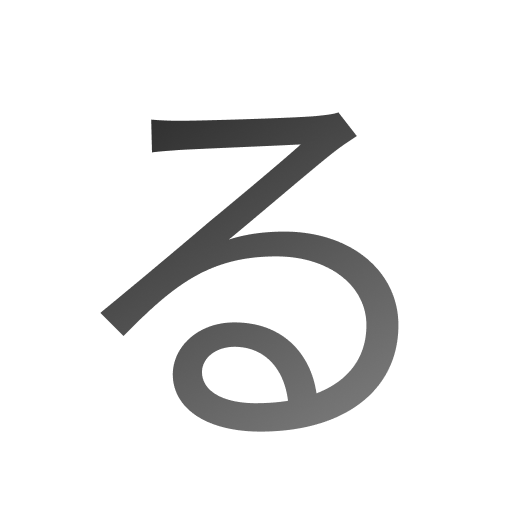
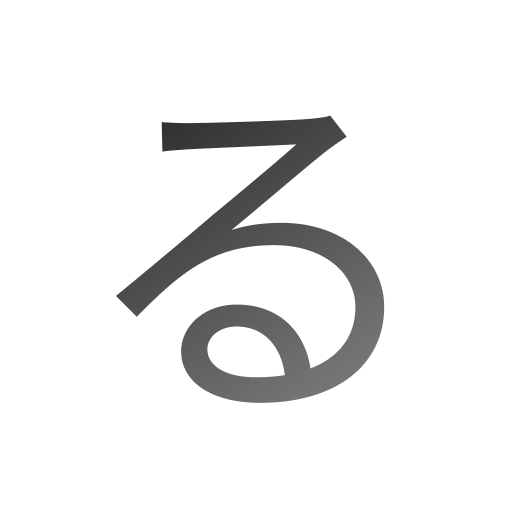
Updates

diff --git a/sw.js b/sw.js
@@ -1,1 +1,1 @@
-if(!self.define){let e,s={};const r=(r,i)=>(r=new URL(r+".js",i).href,s[r]||new Promise((s=>{if("document"in self){const e=document.createElement("script");e.src=r,e.onload=s,document.head.appendChild(e)}else e=r,importScripts(r),s()})).then((()=>{let e=s[r];if(!e)throw new Error(`Module ${r} didn’t register its module`);return e})));self.define=(i,n)=>{const l=e||("document"in self?document.currentScript.src:"")||location.href;if(s[l])return;let o={};const t=e=>r(e,l),u={module:{uri:l},exports:o,require:t};s[l]=Promise.all(i.map((e=>u[e]||t(e)))).then((e=>(n(...e),o)))}}define(["./workbox-3e911b1d"],(function(e){"use strict";self.skipWaiting(),e.clientsClaim(),e.precacheAndRoute([{url:"assets/FileLoader-C9132J3O.js",revision:null},{url:"assets/index-BesQh8cG.css",revision:null},{url:"assets/index-DhUThKGR.js",revision:null},{url:"assets/N2AdjectiveLoader-C6VOlDnP.js",revision:null},{url:"assets/N2AdverbLoader-rge-sFi9.js",revision:null},{url:"assets/N2VerbLoader-C3dmyLnw.js",revision:null},{url:"assets/N5AdjectiveLoader-B3pbAoh1.js",revision:null},{url:"assets/N5AdverbLoader-CwN75rns.js",revision:null},{url:"assets/N5NounLoader-tf-sY7AY.js",revision:null},{url:"assets/N5VerbLoader-_saLDjN7.js",revision:null},{url:"index.html",revision:"1807c945e90aa772536d2cff63925f66"},{url:"registerSW.js",revision:"199d7372245ad158580acfee7fb8bd26"},{url:"icon.png",revision:"6021ecebd778ca864919ff840a56d94f"},{url:"manifest.webmanifest",revision:"14c39c137a96b544910aa4826d10ded0"}],{}),e.cleanupOutdatedCaches(),e.registerRoute(new e.NavigationRoute(e.createHandlerBoundToURL("index.html")))}));
+if(!self.define){let e,s={};const r=(r,i)=>(r=new URL(r+".js",i).href,s[r]||new Promise((s=>{if("document"in self){const e=document.createElement("script");e.src=r,e.onload=s,document.head.appendChild(e)}else e=r,importScripts(r),s()})).then((()=>{let e=s[r];if(!e)throw new Error(`Module ${r} didn’t register its module`);return e})));self.define=(i,n)=>{const l=e||("document"in self?document.currentScript.src:"")||location.href;if(s[l])return;let o={};const t=e=>r(e,l),d={module:{uri:l},exports:o,require:t};s[l]=Promise.all(i.map((e=>d[e]||t(e)))).then((e=>(n(...e),o)))}}define(["./workbox-3e911b1d"],(function(e){"use strict";self.skipWaiting(),e.clientsClaim(),e.precacheAndRoute([{url:"assets/FileLoader-C9132J3O.js",revision:null},{url:"assets/index-BesQh8cG.css",revision:null},{url:"assets/index-DhUThKGR.js",revision:null},{url:"assets/N2AdjectiveLoader-C6VOlDnP.js",revision:null},{url:"assets/N2AdverbLoader-rge-sFi9.js",revision:null},{url:"assets/N2VerbLoader-C3dmyLnw.js",revision:null},{url:"assets/N5AdjectiveLoader-B3pbAoh1.js",revision:null},{url:"assets/N5AdverbLoader-CwN75rns.js",revision:null},{url:"assets/N5NounLoader-tf-sY7AY.js",revision:null},{url:"assets/N5VerbLoader-_saLDjN7.js",revision:null},{url:"index.html",revision:"1807c945e90aa772536d2cff63925f66"},{url:"registerSW.js",revision:"199d7372245ad158580acfee7fb8bd26"},{url:"icon.png",revision:"1dcf12f1ba6d9b54ed45c7e70f191ab8"},{url:"manifest.webmanifest",revision:"14c39c137a96b544910aa4826d10ded0"}],{}),e.cleanupOutdatedCaches(),e.registerRoute(new e.NavigationRoute(e.createHandlerBoundToURL("index.html")))}));
